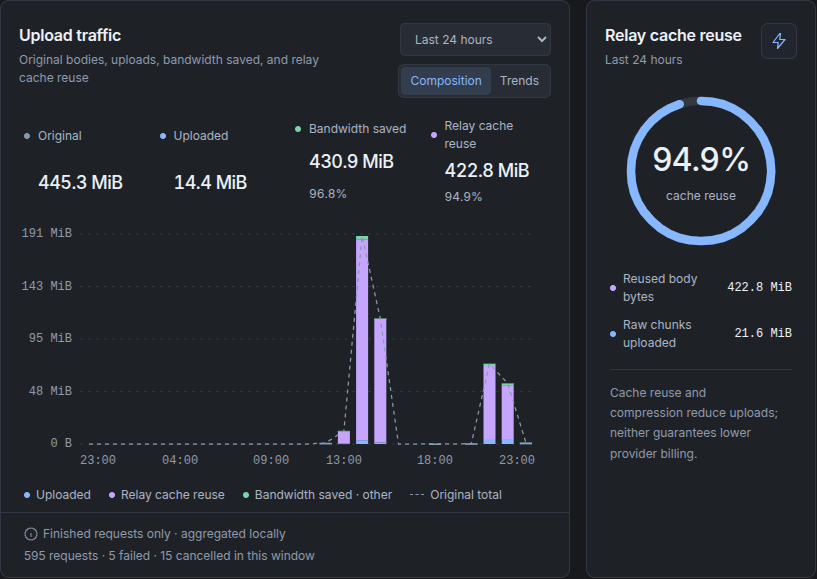
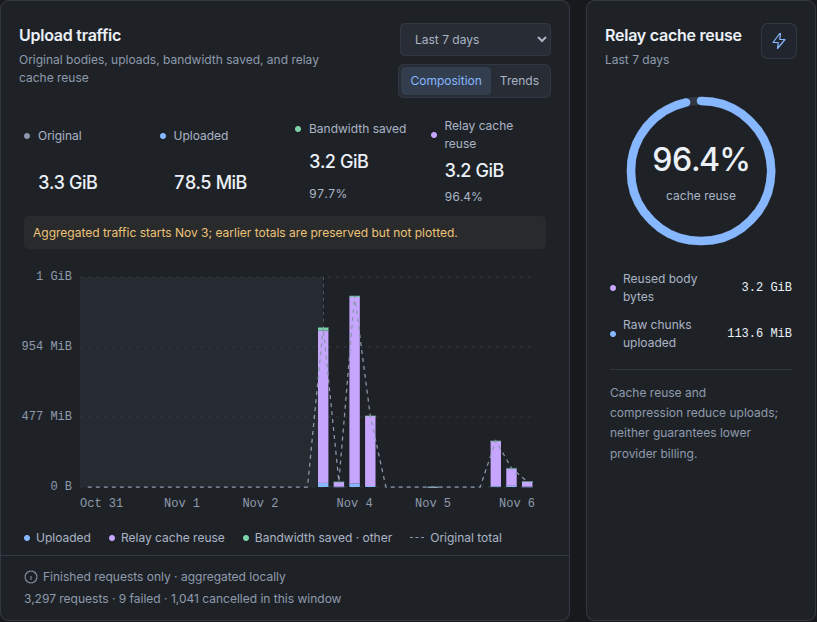
docs: use seven-day dashboard savings capture

diff --git a/README.md b/README.md
@@ -17,16 +17,18 @@ The OpenCode V2 integration keeps your UI, files, tools, sessions, and sign-ins
 local. Responses stream back through the relay, with no automatic direct-provider
 fallback.
 
-## 445.3 MiB of request bodies. 14.4 MiB uploaded.
+## 3.3 GiB of request bodies. 78.5 MiB uploaded.
 
-**96.8% less uploaded** in the dashboard's captured 24-hour window below.
+**97.7% less uploaded** in the dashboard's captured **Last 7 days** view below.
 
-![Dashboard upload composition and cache-reuse charts: 445.3 MiB original, 14.4 MiB uploaded, 430.9 MiB saved, and 94.9% cache reuse.](docs/images/dashboard-savings.png)
+![Dashboard seven-day upload composition and cache-reuse charts: 3.3 GiB original, 78.5 MiB uploaded, 3.2 GiB saved, and 96.4% cache reuse.](docs/images/dashboard-savings.png)
 
 Actual local dashboard capture, November 7, 2026 (UTC), with rounded display
-values. The chart reports finished requests only: 595 requests, including
-5 failed and 15 cancelled in that window. **This is an observed sample, not a
-benchmark or a speed guarantee.**
+values. The chart reports finished requests only: 3,297 requests, including
+9 failed and 1,041 cancelled in that window. Aggregated traffic starts November 3;
+earlier totals are preserved but not plotted, so the selected range is not seven
+complete days of plotted history. **This is an observed sample, not a benchmark
+or a speed guarantee.**
 
 Reduction is `1 - encoded upload bytes / original body bytes`. It combines chunk
 reuse and compression, includes upload control metadata, and excludes HTTP

diff --git a/docs/images/README.md b/docs/images/README.md
@@ -4,7 +4,9 @@ These PNGs are cropped captures of the running local DeltaRelay dashboard taken
 on November 7, 2026 (UTC), not mockups or synthetic test data.
 
 - `dashboard-savings.png`: Overview upload-composition and cache-reuse panels,
-  with the **Last 24 hours** range selected. Values are rounded by the dashboard.
+  with the **Last 7 days** range selected. Values are rounded by the dashboard.
+  Aggregated traffic starts November 3; earlier totals are preserved but not
+  plotted, as the visible chart notice explains.
   The chart reports finished requests only and retains its failed/cancelled
   counts. Cache reuse and encoded-upload reduction are different measurements.
 - `dashboard-architecture.png`: System controls connection map, including its
